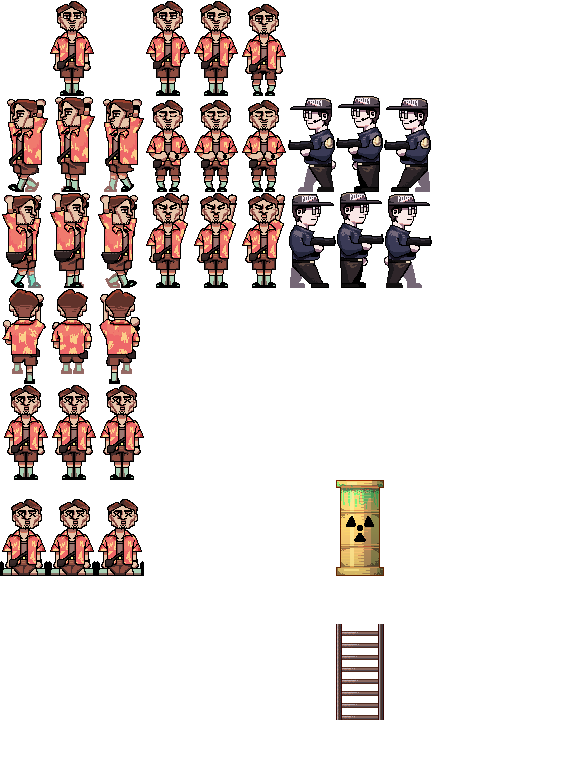
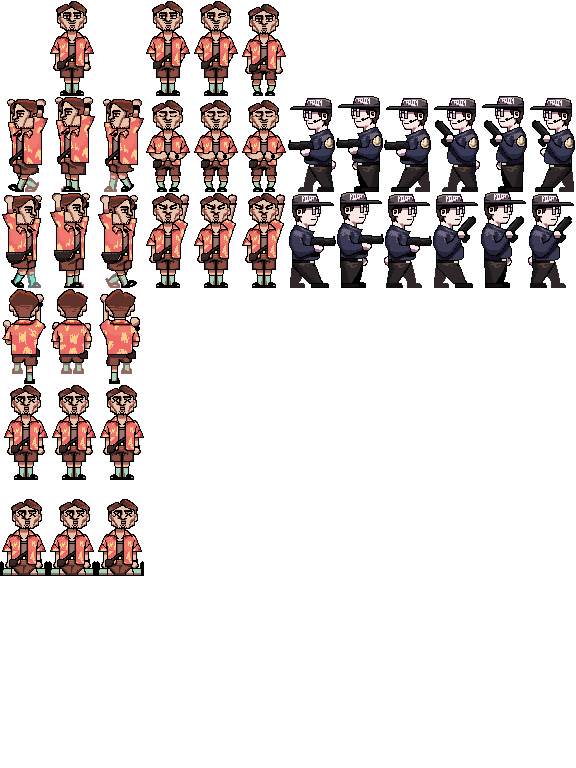
Guard animation updated

diff --git a/HITDAD/js/plugins/SPFCore.js b/HITDAD/js/plugins/SPFCore.js
@@ -398,6 +398,38 @@ function SPF_ChangeSpriteSheet(name) {
     }
 }
 
+const SPF_ENEMYSPRITESHEET = {
+    PATROLLING: 0,
+    SHOOTING: 1,
+}
+
+function SPF_ChangeEnemySpriteSheet(enemy, name) {
+
+    let file;
+    let index;
+
+    switch(name) {
+        case SPF_ENEMYSPRITESHEET.PATROLLING:
+            file = "!hitdad_carry";
+            index = 3;
+            break;
+        case SPF_ENEMYSPRITESHEET.SHOOTING:
+            file = "!hitdad_carry";
+            index = 2;
+            break;
+        default:
+            console.log("Error switching sprite sheet");
+            break;
+    }
+
+    if (file) {
+        enemy.setImage(file, index);
+        enemy.refresh();
+        // $gameActors.actor(1).setCharacterImage(file, index);
+        // $gamePlayer.refresh();
+    }
+}
+
 
 /**
  * Do a line trace forward from the player, return first hit event in range or null if none in range

diff --git a/HITDAD/js/plugins/SPFEnemyProjectileAttack.js b/HITDAD/js/plugins/SPFEnemyProjectileAttack.js
@@ -168,11 +168,14 @@
         SPF_IsEnemyPacified(this) ||
         this._playerDetected ||
         this._movementPauseCountDown > 0) {
-
+      if (this._playerDetected) {
+        SPF_ChangeEnemySpriteSheet(this, SPF_ENEMYSPRITESHEET.SHOOTING);
+      }
       SPF_EnemyPauseMovement(this, true);
       return;
 
     } else {
+      SPF_ChangeEnemySpriteSheet(this, SPF_ENEMYSPRITESHEET.PATROLLING)
       SPF_EnemyPauseMovement(this, false);
     }
 
